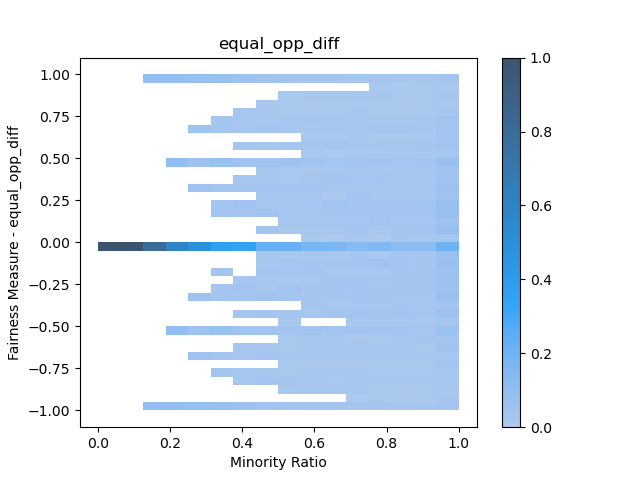
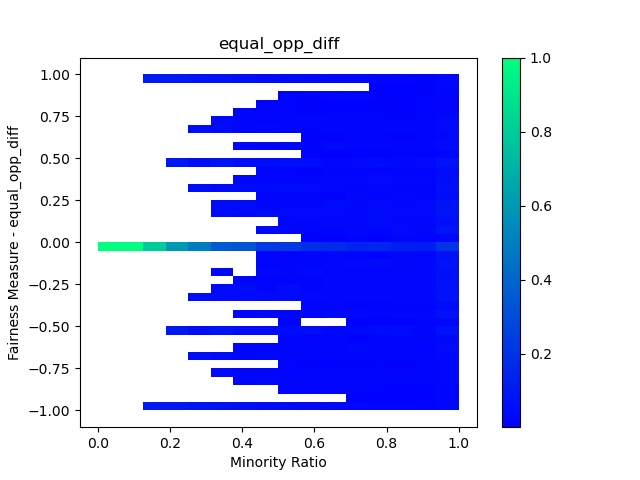
fix max values in colorbars for heatmaps

Changed region(s): [[0.1562, 0.1562, 0.7188, 0.875], [0.7812, 0.125, 0.875, 0.9062]]

diff --git a/main.py b/main.py
@@ -6,7 +6,6 @@ import pickle
 import pandas as pd
 import matplotlib.pyplot as plt
 import seaborn as sns
-from matplotlib.ticker import FormatStrFormatter
 
 
 def the_ratio(n, k):
@@ -201,9 +200,13 @@ def create_heatmap(df, fair_measure):
     df1 = pd.merge(df1, ir_counts, on='ir', how='left')
     df1['probability'] = df1.counts / df1.ir_counts
 
-    #however i think this is not a final form
-    heatm = sns.histplot(df1, x="ir", y=fair_measure, weights="probability", binwidth=(0.0625, 0.05), cbar=True)
+    heatm = sns.histplot(df1, x="ir", y=fair_measure, weights="probability", binwidth=(0.0625, 0.05), cmap="winter")
+     
+    norm = plt.Normalize(df1['probability'].min(), df1['probability'].max())
+    sm = plt.cm.ScalarMappable(cmap="winter", norm=norm)
+    sm.set_array([])
 
+    heatm.figure.colorbar(sm)
     plt.title(str(fair_measure))
     plt.ylabel(f"Fairness Measure - {fair_measure}")
     plt.xlabel("Minority Ratio")
@@ -227,7 +230,6 @@ def create_histogram(df, ir_selected, fair_measure, bins_selected):
     
     fig = hist[0][0].get_figure()
     fig.savefig(f"plots/histogram_{fair_measure}_{round(ir_selected,2)}.png")
-    #plt.show()
     return
     
         
@@ -311,15 +313,7 @@ if __name__ == '__main__':
         for ir_selected in ir_selected_list:
             create_histogram(df, ir_selected, fm, 100)
             
-    # 1 TODO: Automatyzacja robienia histogramów - DONE
-    # 2 TODO: Sprawdzenie kodu
-    # 3 TODO: Etykietowanie osi - DONE
-    # 4 TODO: Co z tymi zerowymi wartościami?
-    # 5 TODO: Więcej miar - DONE
-    # 6 TODO: Zaokrąglenie wartości na osiach
-    # 7 TODO: Wyciągnięcie IR z DF - DONE
-    # 8 heatmapa - nie count a prawdopodob. (przy zadanym ir jaki procent przykladow mial dany fairness) - DONE
-    # scala color sequential - DONE
+
     # policzyć n dla danego zbioru w df
         
     print("Total time: %.2f [s]" % (time.time() - prog_start_time))
